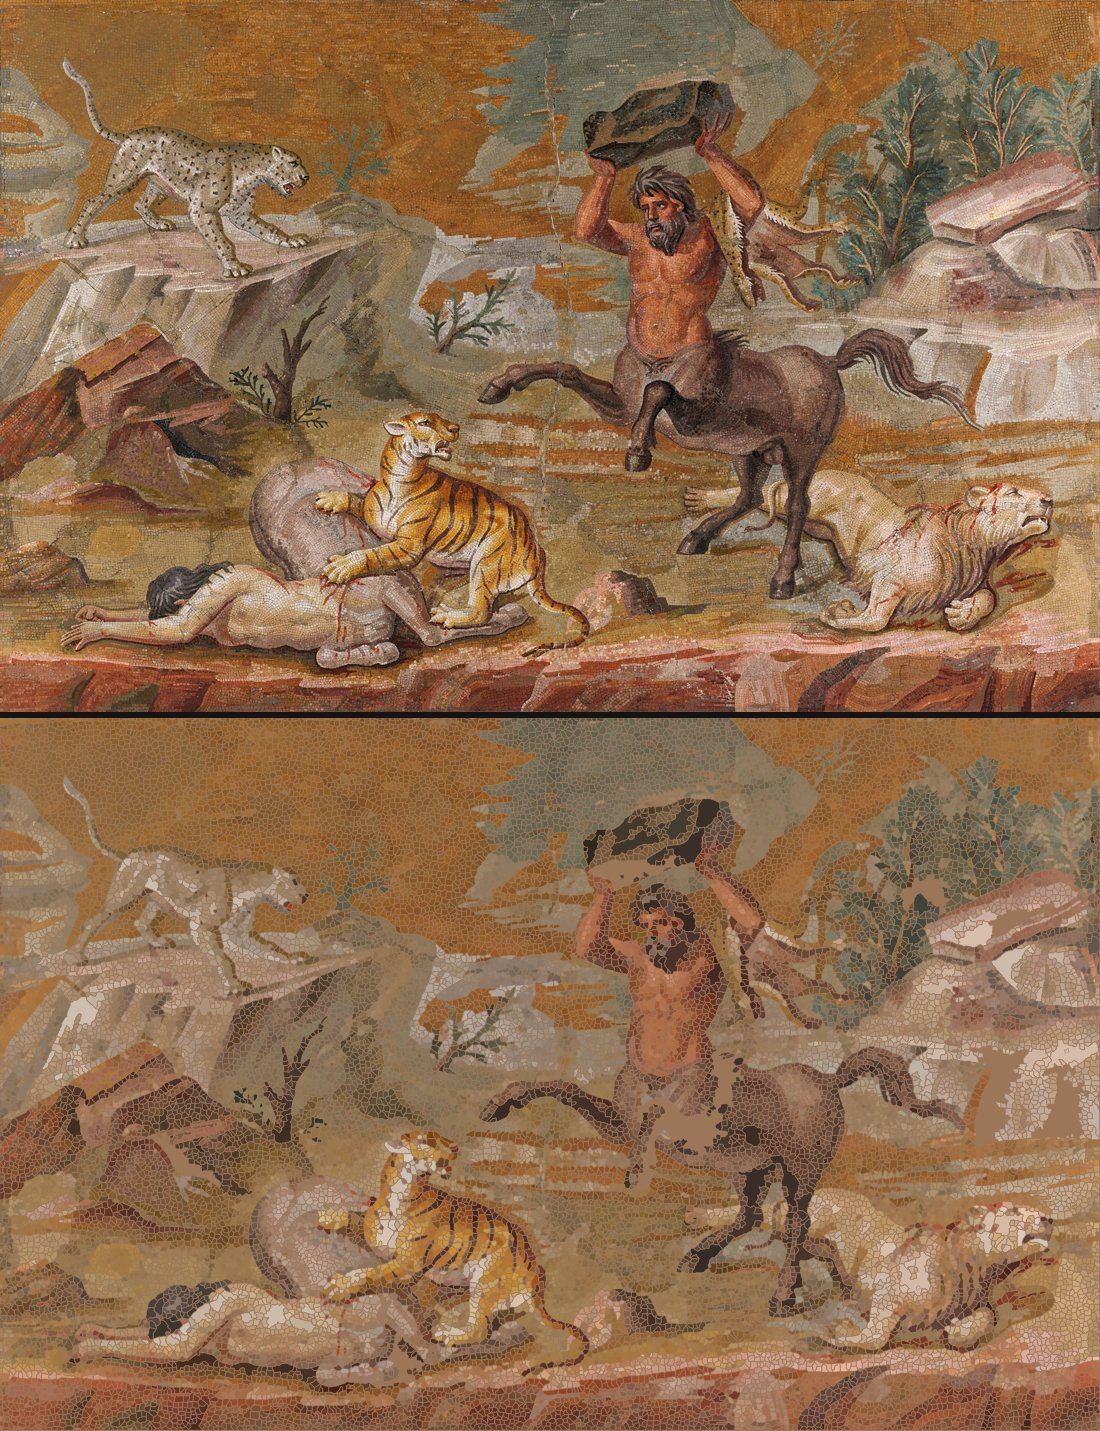
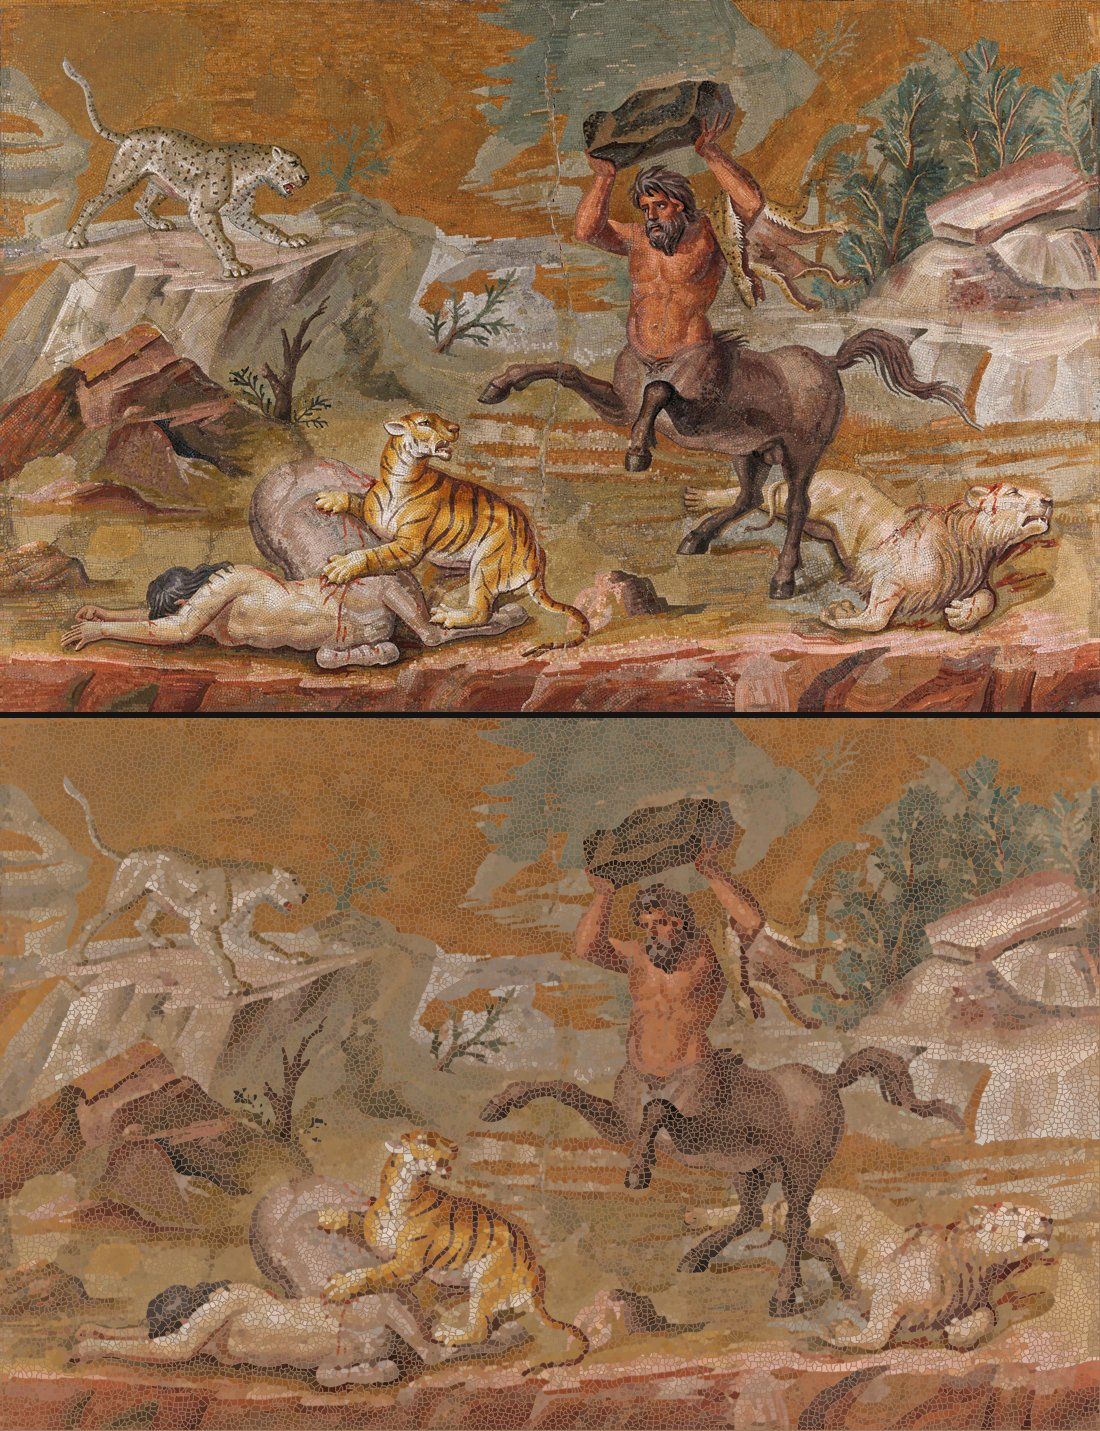
The cell join is opt-in; its ceiling is named; the road past it is charted
An evening of adversarial iteration with ground truth as referee: the
join went from color-range (fused pale fields into slabs) to two-pass
nearest-model with certified, dissimilar-gated, quorum-gated grout
candidates and two voices behind absolute bars (chroma sees through a
ridge's darkening; luminance catches cream-on-mortar that chroma cannot).
Each step was falsified against a synthetic floor with a known answer and
three sentinel floors — and the last falsification found the wall itself:
a healed ridge-split and two same-colored touching stones are the same
observation in color space. No color rule heals a weathered figure
without devouring a pebble floor.

So: --join is opt-in, its honest ceiling is documented, and Future Work
now names the three ways past it — Cellpose fusion as ground truth where
the model is confident, per-floor auto-calibration by reconstruction
error, and an interactive seam-threshold viewer (segmentation costs
minutes; a join decision over precomputed seams costs milliseconds).
Default output is unchanged from the pre-join engine, verified
byte-deterministic. Suite: 10 tests.

diff --git a/surveyor/digitize.py b/surveyor/digitize.py
@@ -58,7 +58,7 @@ FORMAT = "tessera-surveyor/1"
 
 def digitize(path, out_prefix, crop_frac=None, max_side=2200, stone_px=16,
              min_stone_px=25, min_solidity=0.5, rounds=40, render=True,
-             source_note="", join=True):
+             source_note="", join=False):
     im = Image.open(path).convert("RGB")
     if crop_frac:
         fx0, fy0, fx1, fy1 = crop_frac
@@ -116,24 +116,89 @@ def digitize(path, out_prefix, crop_frac=None, max_side=2200, stone_px=16,
     fill = (lab == 0) & (dist <= close_px)
     lab[fill] = lab[iy[fill], ix[fill]]
 
-    # THE CELL JOIN (Sebastian's rule, 08-26): the mold over-segments full
-    # stones along their internal ridges — a shadowed crack or a vein in
-    # the mineral reads as a wall. But a REAL wall has grout in it. So:
-    # two adjacent cells are one stone if (a) the photograph's color along
-    # their shared seam does NOT fall in the grout color range — no grout
-    # ran there — and (b) their own colors agree, because the parts of one
-    # over-split stone share its color while genuinely distinct neighbors
-    # do not. Distinct stones touching with sub-pixel grout fail (b) and
-    # stay separate, in the merge-flag family where they belong.
+    # THE CELL JOIN (Sebastian's rule, 08-26; OPT-IN): the mold
+    # over-segments full stones along their internal ridges — a vein or a
+    # shadowed crack reads as a wall. But a REAL wall has grout in it, and
+    # the test is RECONSTRUCTION COST: every seam we keep gets painted
+    # grout in the reconstruction, and grout is mostly one color — so
+    # painting it over true grout is nearly free, while painting it over
+    # stone is costly. A seam joins its two cells when writing grout there
+    # would cost more than calling it stone, in the flat-fill render's own
+    # pixel error.
+    #
+    # PASS 1 — grout candidates, from median sets of pixels: the thin
+    # unclaimed lattice votes, gated three ways — CERTIFIED (only pixels
+    # between two different cells; an internal sliver certifies nothing),
+    # DISSIMILAR (only joints between cells whose own colors differ; an
+    # over-split stone's fragments share its color, so their ridges never
+    # vote — otherwise the split certifies the very ridge that caused it),
+    # and QUORUM (a candidate from a handful of pixels is noise wearing a
+    # uniform). Candidates are a coarse grid of local medians plus the
+    # global median plus the segmentation's own ridge median — medians
+    # only, no clustering: one phantom mode can veto joins floor-wide.
+    #
+    # PASS 2 — enforce the merge per seam, nearest model in CHROMATICITY
+    # (a ridge is a darkened stone: same hue, less light — chroma sees
+    # through the darkening; plain RGB cannot tell stone-brown from
+    # grout-brown on a weathered floor and eats the figure). Ties go to
+    # grout.
+    # And the cells' own colors must agree, because the parts of one stone
+    # share its color while genuinely distinct neighbors do not — stones
+    # touching through sub-pixel grout stay in the merge-flag family.
+    #
+    # ⚠ WHY OPT-IN: color evidence has a ceiling here. A healed ridge-
+    # split and two same-colored stones touching without visible grout
+    # are the SAME observation — two same-colored cells, a non-grout
+    # seam — so any color rule aggressive enough to heal a weathered
+    # figure also devours a pebble floor. Telling them apart needs shape
+    # priors or a learned model (the conf field's job). Until then the
+    # join is a per-floor judgment: try it, look at the render, decide.
     if join:
-        gpix = rgb[lab1 == 0]
-        if len(gpix) > 100:
-            gmed = np.median(gpix, axis=0)
-            gtol = max(18.0, 2.0 * float(
-                np.median(np.abs(gpix - gmed).max(axis=1))))
-        else:
-            gmed, gtol = np.asarray(grout_color, float), 24.0
-        # seam samples between adjacent closed cells
+        unc = lab1 == 0
+        dtu = ndi.distance_transform_edt(unc)
+        thin = unc & (dtu <= max(2.0, 0.15 * stone_px))
+        BIG = 10 ** 9
+        d1 = ndi.grey_dilation(lab1, size=5)
+        d2 = -ndi.grey_dilation(-np.where(lab1 > 0, lab1, BIG), size=5)
+        thin = thin & (d1 != d2) & (d2 < BIG) & (d1 > 0)
+        d1c = np.clip(d1, 0, n + 1)
+        d2c = np.clip(np.where(d2 == BIG, 0, d2), 0, n + 1)
+        thin = thin & (np.abs(ref[d1c] - ref[d2c]).max(axis=-1) > 30)
+        QUORUM = 400
+        if thin.sum() < QUORUM:
+            thin[:] = False
+        gglobal = (np.median(rgb[thin], 0) if thin.any()
+                   else np.asarray(grout_color, float))
+        CELL = max(48, 4 * stone_px)
+        gw = rgb.shape[1] // CELL + 1
+        gcolor = {}
+        gy_, gx_ = np.nonzero(thin)
+        if len(gy_):
+            cells = (gy_ // CELL) * gw + (gx_ // CELL)
+            order = np.argsort(cells)
+            cells, gy_, gx_ = cells[order], gy_[order], gx_[order]
+            edges = np.nonzero(np.diff(cells))[0] + 1
+            for ci, s0, s1 in zip(cells[np.r_[0, edges]],
+                                  np.r_[0, edges],
+                                  np.r_[edges, len(cells)]):
+                if s1 - s0 >= 60:
+                    gcolor[int(ci)] = np.median(rgb[gy_[s0:s1], gx_[s0:s1]], 0)
+        cands = [gglobal, np.asarray(grout_color, float)]
+
+        def chroma(c):
+            c = np.asarray(c, float)
+            return c / max(float(c.sum()), 1e-6)
+
+        # each cell's MEASURED mean color — the seed pixel's color is one
+        # sample and a fragment seeded on its own ridge line wears the
+        # ridge's color, wrongly failing every agreement test it meets
+        cmean = ref.copy()
+        idx_ = np.arange(1, n + 1)
+        cnt_ = ndi.sum(np.ones_like(lab1, float), lab1, idx_)
+        for c_ in range(3):
+            s_ = ndi.sum(rgb[..., c_], lab1, idx_)
+            ok_ = cnt_ > 0
+            cmean[1:n + 1, c_][ok_] = s_[ok_] / cnt_[ok_]
         pairs = {}
         for (sa, sb) in ((lab[:, :-1], lab[:, 1:]), (lab[:-1, :], lab[1:, :])):
             m = (sa != sb) & (sa > 0) & (sb > 0)
@@ -157,10 +222,37 @@ def digitize(path, out_prefix, crop_frac=None, max_side=2200, stone_px=16,
             ys_ = np.array([p[0] for p in px_list])
             xs_ = np.array([p[1] for p in px_list])
             seam_med = np.median(smooth[ys_, xs_], axis=0)
-            seam_is_grout = np.abs(seam_med - gmed).max() <= gtol
-            colors_agree = np.abs(ref[a] - ref[b]).max() <= max(
+            cy_, cx_ = int(ys_.mean()), int(xs_.mean())
+            local = [gcolor[(cy_ // CELL) * gw + (cx_ // CELL)]]                 if (cy_ // CELL) * gw + (cx_ // CELL) in gcolor else []
+            stone_mean = 0.5 * (cmean[a] + cmean[b])
+            # cost of writing grout over this seam vs calling it stone,
+            # by two voices that each must clear an ABSOLUTE bar — the
+            # seam must stand a real distance from every grout candidate
+            # before a join is even considered, because dc_stone is
+            # measured against the very cells the seam borders and is
+            # small by construction; without the bar, "nearer stone" wins
+            # everywhere on any low-chroma floor by that bias alone.
+            #   CHROMA voice: a ridge is a darkened stone — same hue,
+            #   less light — so chroma sees through the darkening. Blind
+            #   where stone and grout share a hue (cream on mortar,
+            #   grisaille).
+            #   LUMINANCE-RGB voice: catches exactly those — a cream
+            #   stone on dark grout is chroma-invisible but 110 levels
+            #   apart in RGB. Its bar is high, because on a weathered
+            #   floor stone-brown and grout-brown are RGB neighbors and a
+            #   permissive RGB voice eats the figure.
+            dc_grout = min(float(np.abs(chroma(seam_med) - chroma(g_)).max())
+                           for g_ in cands + local)
+            dc_stone = float(np.abs(chroma(seam_med) - chroma(stone_mean)).max())
+            chroma_stone = (dc_grout > 0.025
+                            and dc_stone + 0.008 < dc_grout)
+            err_grout = min(float(np.abs(seam_med - g_).max())
+                            for g_ in cands + local)
+            err_stone = float(np.abs(seam_med - stone_mean).max())
+            rgb_stone = err_grout > 45.0 and err_stone + 12.0 < err_grout
+            colors_agree = np.abs(cmean[a] - cmean[b]).max() <= max(
                 24.0, min(tau[a], tau[b]))
-            if not seam_is_grout and colors_agree:
+            if (chroma_stone or rgb_stone) and colors_agree:
                 ra, rb = find(a), find(b)
                 if ra != rb:
                     parent[rb] = ra
@@ -303,7 +395,7 @@ def render_svg(tess):
 
 def digitize_tiled(path, out_prefix, core=1024, margin=128, stone_px=18,
                    min_stone_px=25, min_solidity=0.5, rounds=40,
-                   source_note="", join=True):
+                   source_note="", join=False):
     """Tiled survey at native resolution — accuracy through local
     calibration. One global grout threshold across a large photograph is
     a compromise: lighting drifts, and the 82nd percentile of the whole

diff --git a/tests/test_surveyor.py b/tests/test_surveyor.py
@@ -218,7 +218,7 @@ def test_cell_join_heals_ridge_splits(tmp_path):
                 n_ridged += 1
     im.save(photo)
     tess = digitize(photo, str(tmp_path / "ridged"), stone_px=STONE,
-                    max_side=4000)
+                    max_side=4000, join=True)
     real = [s for s in tess["stones"]
             if not s["near_grout"] and "merged" not in s["flags"]]
     total = COLS * ROWS

diff --git a/README.md b/README.md
@@ -14,9 +14,8 @@ own eyes whether the data says the floor.
 *Gorgon medallion, opus tessellatum, National Archaeological Museum,
 Athens (photo CC0, via Wikimedia Commons) — photograph above, and below
 it the same floor re-rendered purely from its `.stones.json`:
-**57,206 stones** measured in tiled mode at native 3840px resolution
-(1,445 ridge-splits healed by the cell join), 100% coverage — grout color
-and stone walls calibrated locally per tile.
+**58,058 stones** measured in tiled mode at native 3840px resolution,
+100% coverage — grout color and stone walls calibrated locally per tile.
 More floors — including where the tool fails — in
 [examples/GALLERY.md](examples/GALLERY.md).*
 
@@ -77,7 +76,7 @@ Four files come out:
   "grout_rgb": [168, 148, 122],
   "coverage": 1.0,
   "merged_flagged": 22,
-  "joined": 2599,
+  "joined": 0,
   "n_stones": 18387,
   "stones": [
     {"poly": [[x, y], ...], "rgb": [r, g, b], "area_px": 214,
@@ -123,20 +122,37 @@ only as good as its list of what it cannot see:
   missing floor from a basin of stone. Until loss detection exists,
   treat stones in visibly damaged regions as suspect, and crop around
   damage when you can.
-- **The count runs high, though the cell join now takes the worst of
-  it.** Every minimum of the gradient field seeds a stone, so a textured
-  or veined tessera can be split along its internal ridges. The join
-  heals the splits whose seam is provably not grout (on a weathered floor
-  like the Alexander detail that recovers ~14% of the count), but the
-  bias does not vanish: **`n_stones` is still an upper bound, not a
-  census.**
+- **The count runs high.** Every minimum of the gradient field seeds a
+  stone, so a textured or veined tessera can be split along its internal
+  ridges: **`n_stones` is an upper bound, not a census.** The opt-in
+  `--join` heals splits whose seam is provably not grout (on the
+  weathered Alexander detail it recovers a large share of the over-count
+  and resolves a mushy white ground into individual tesserae) — but it is
+  opt-in for an honest reason: **color evidence has a ceiling.** A healed
+  ridge-split and two same-colored stones touching without visible grout
+  are the *same observation* — two same-colored cells, a non-grout seam —
+  so a rule aggressive enough to heal a weathered figure also devours a
+  pebble floor. Try it per floor and judge the render with your eyes.
 
 ## Future work — toward full accuracy
 
-(The first item of this list, seed consolidation, shipped as the cell
-join: adjacent cells whose shared seam is not grout-colored and whose
-colors agree are one stone. What remains:)
+(Seed consolidation shipped as the opt-in cell join; its ceiling — see
+Known limitations — is what the first three items below break through:)
 
+- **Model fusion**: use a cell-segmentation model (Cellpose) as ground
+  truth in the color ranges it demonstrably handles — it reads bright,
+  well-jointed regions with higher fidelity than the mold — and let the
+  value-blind growth cover the dark where the model is silent. The
+  validation prototype exists; fusing them is the single largest accuracy
+  win available.
+- **Join auto-calibration by reconstruction error**: choose per-floor
+  join thresholds by minimizing the pixel difference between the flat
+  render and the photograph — grout is mostly one color, so grout painted
+  where it shouldn't be is costly and measurable.
+- **Interactive threshold viewer**: segmentation costs minutes, but a
+  join decision over precomputed seams costs milliseconds — so ship the
+  seam records in the data file and re-join live in a browser as a
+  slider moves.
 - **Loss detection**: classify smooth regions as stone vs lacuna (texture
   statistics, or a learned model), so damage is reported as damage.
 - **Per-stone confidence**: every stone already carries `"conf": null` —

diff --git a/examples/GALLERY.md b/examples/GALLERY.md
@@ -6,7 +6,7 @@ Sources and licenses in [PROVENANCE.md](PROVENANCE.md).
 
 ## Gorgon medallion, NAMA Athens — the headline result
 
-57,206 stones surveyed in tiled mode (1,445 ridge-splits joined) at native 3840px resolution —
+58,058 stones surveyed in tiled mode at native 3840px resolution —
 12 tiles, each calibrating grout color and stone walls locally, seams
 deduped by centroid-in-core. The photo is not shipped for size; fetch it
 from the Commons link in PROVENANCE.md and reproduce with:
@@ -17,7 +17,7 @@ from the Commons link in PROVENANCE.md and reproduce with:
 
 ## Alexander Mosaic (detail), House of the Faun, Pompeii
 
-15,775 stones after 2,599 ridge-split joins. Three panels: photograph, data-only reconstruction, and
+18,387 stones. Three panels: photograph, data-only reconstruction, and
 the pixel-true render. **Look at the shoulders**: the stripped patches
 (lost tesserae) are tiled with plausible false stones — this is the
 lacuna limitation from the README, kept here on purpose.
@@ -26,27 +26,27 @@ lacuna limitation from the README, kept here on purpose.
 
 ## Stag Hunt, Pella (pebble mosaic, c. 300 BC)
 
-13,253 stones, zero joins fired — pebbles carry no internal ridges at this resolution. A different tradition — natural pebbles, not cut tesserae —
+13,253 stones. A different tradition — natural pebbles, not cut tesserae —
 and the same value-blind growth reads it.
 
 ![Stag Hunt](gallery-stag-hunt-pella.jpg)
 
 ## Floor mosaic (Google Art Project)
 
-30,339 stones (2,423 joins).
+32,750 stones.
 
 ![Floor mosaic](gallery-google-art.jpg)
 
 ## Partridge, Walters Art Museum
 
-19,141 stones (1,226 joins), 437 merges flagged — fine white ground with sub-pixel
+20,373 stones, 423 merges flagged — fine white ground with sub-pixel
 joints, the merge gate's busiest day in this set.
 
 ![Partridge](gallery-partridge-walters.jpg)
 
 ## Gorgon medallion at reduced resolution
 
-22,958 stones at the default `--max-side 2200` — compare with the
+22,961 stones at the default `--max-side 2200` — compare with the
 headline result above to see what native resolution buys: the same floor,
 three times the stones resolved.
 
@@ -54,12 +54,12 @@ three times the stones resolved.
 
 ## Centaur mosaic, Altes Museum Berlin
 
-26,304 stones (1,381 joins).
+27,692 stones.
 
 ![Centaur](gallery-centaur-berlin.jpg)
 
 ## Synagogue floor segment, Tiberias
 
-2,953 stones.
+2,961 stones.
 
 ![Tiberias](gallery-tiberias-synagogue.jpg)
